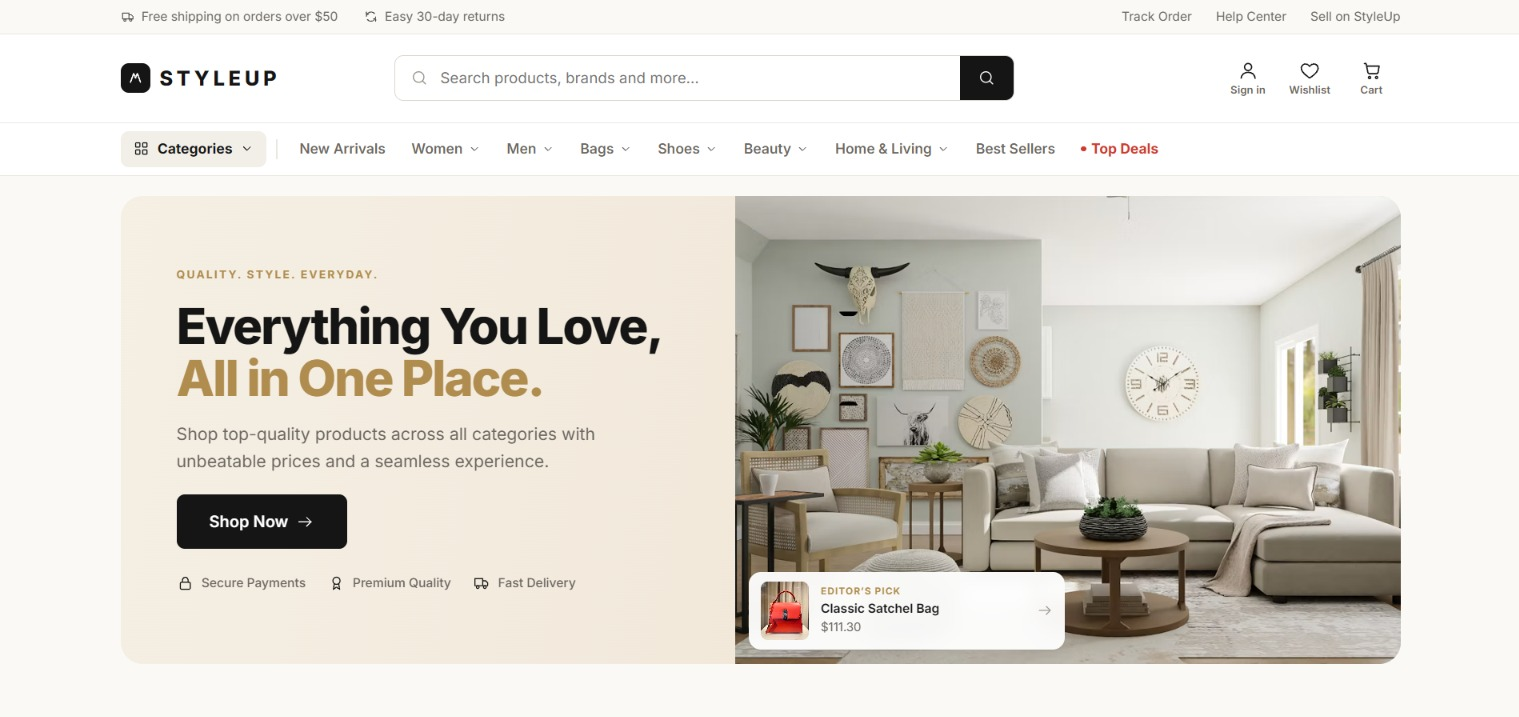
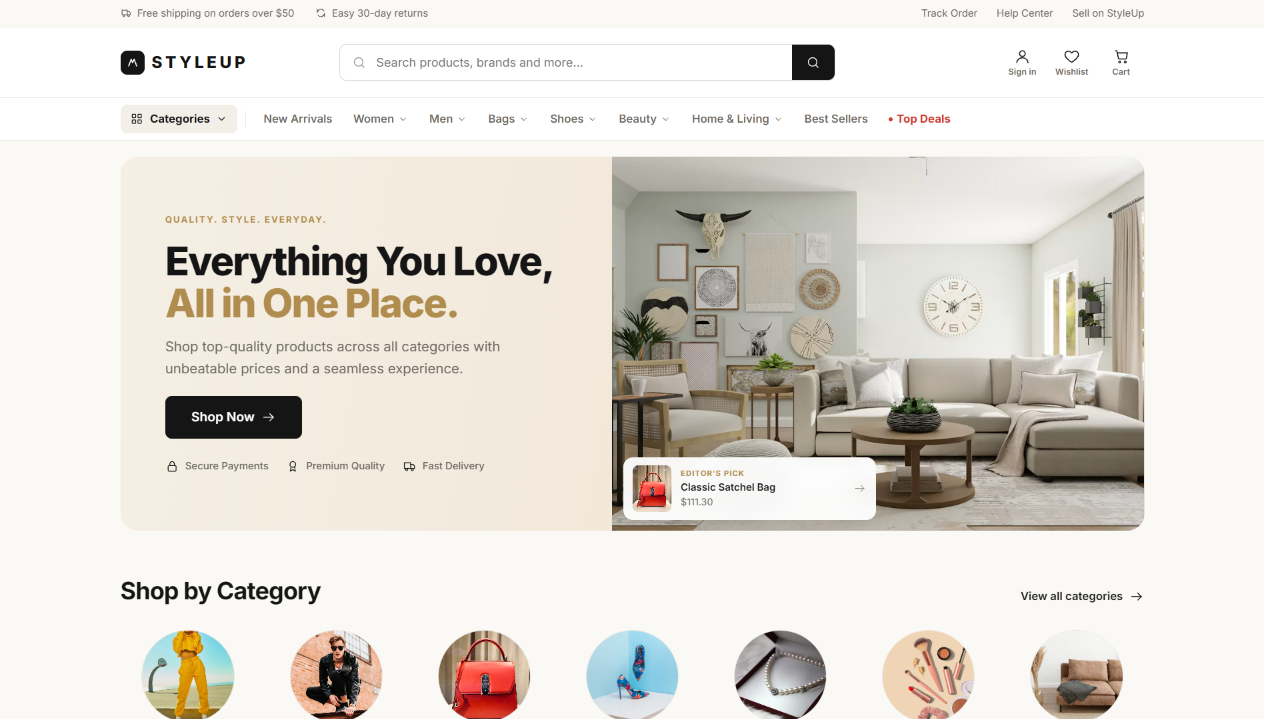
v3

diff --git a/client/src/components/Nav.jsx b/client/src/components/Nav.jsx
@@ -1,7 +1,7 @@
 import { useEffect, useState } from 'react'
 import { profile } from '../data/content'
 import { ArrowUpRight } from './icons'
-
+import logo from '../assets/usamanasir_logo.jpeg'
 /* Same order as the page itself. */
 const links = [
   ['Home', '#top'],
@@ -47,13 +47,17 @@ export default function Nav() {
 
   return (
     <header
-      className={`fixed inset-x-0 top-0 z-50 border-b transition-[background-color,border-color,backdrop-filter] duration-500 ease-fluid ${
-        bar ? 'border-line bg-white/85 backdrop-blur-xl' : 'border-line bg-white/95'
-      }`}
+      className={`fixed inset-x-0 top-0 z-50 border-b transition-[background-color,border-color,backdrop-filter] duration-500 ease-fluid ${bar ? 'border-line bg-white/85 backdrop-blur-xl' : 'border-line bg-white/95'
+        }`}
     >
       <div className="shell flex max-w-[1480px] items-center justify-between py-5">
-        <a href="#top" className="flex items-center gap-3 text-[21px] font-bold tracking-tight text-ink-900">
-          <span className="text-[30px] font-bold italic tracking-[-.12em] text-mint-600" aria-hidden="true">UN</span>{profile.name}
+        <a href="#top" className="flex items-center" aria-label={`${profile.name} - home`}>
+          <img
+            src={logo}
+            alt={profile.name}
+            className="-my-2 h-24 w-auto mix-blend-multiply sm:-my-12 sm:h-34"
+            style={{ filter: 'contrast(1.15) brightness(1.08)' }}
+          />
         </a>
 
         <nav className="hidden items-center gap-1 lg:flex" aria-label="Primary">
@@ -70,7 +74,9 @@ export default function Nav() {
 
         <div className="flex items-center gap-2">
           <a
-            href={`mailto:${profile.email}`}
+            href={`https://mail.google.com/mail/?view=cm&to=${profile.email}`}
+            target="_blank"
+            rel="noopener noreferrer"
             className="group hidden items-center gap-2 rounded-full bg-mint-600 py-1.5 pl-5 pr-1.5 text-[15px] font-medium text-white transition-colors duration-500 ease-fluid hover:bg-mint-700 sm:inline-flex"
           >
             Let&apos;s talk
@@ -89,14 +95,12 @@ export default function Nav() {
           >
             <span className="relative block h-3 w-4">
               <span
-                className={`absolute left-0 block h-px w-4 bg-current transition-transform duration-500 ease-fluid ${
-                  open ? 'top-1.5 rotate-45' : 'top-0'
-                }`}
+                className={`absolute left-0 block h-px w-4 bg-current transition-transform duration-500 ease-fluid ${open ? 'top-1.5 rotate-45' : 'top-0'
+                  }`}
               />
               <span
-                className={`absolute left-0 block h-px w-4 bg-current transition-transform duration-500 ease-fluid ${
-                  open ? 'top-1.5 -rotate-45' : 'top-3'
-                }`}
+                className={`absolute left-0 block h-px w-4 bg-current transition-transform duration-500 ease-fluid ${open ? 'top-1.5 -rotate-45' : 'top-3'
+                  }`}
               />
             </span>
           </button>
@@ -106,9 +110,8 @@ export default function Nav() {
       <div
         id="nav-panel"
         inert={open ? undefined : ''}
-        className={`overflow-hidden border-t border-line bg-white transition-[max-height,opacity] duration-700 ease-fluid lg:hidden ${
-          open ? 'max-h-96 opacity-100' : 'max-h-0 opacity-0'
-        }`}
+        className={`overflow-hidden border-t border-line bg-white transition-[max-height,opacity] duration-700 ease-fluid lg:hidden ${open ? 'max-h-96 opacity-100' : 'max-h-0 opacity-0'
+          }`}
       >
         <nav className="shell flex flex-col py-4" aria-label="Mobile">
           {links.map(([label, href], i) => (
@@ -117,9 +120,8 @@ export default function Nav() {
               href={href}
               onClick={() => setOpen(false)}
               style={{ transitionDelay: open ? `${80 + i * 45}ms` : '0ms' }}
-              className={`border-b border-line/70 py-3.5 font-display text-xl tracking-tightest text-ink-900 transition-all duration-500 ease-fluid ${
-                open ? 'translate-y-0 opacity-100' : 'translate-y-3 opacity-0'
-              }`}
+              className={`border-b border-line/70 py-3.5 font-display text-xl tracking-tightest text-ink-900 transition-all duration-500 ease-fluid ${open ? 'translate-y-0 opacity-100' : 'translate-y-3 opacity-0'
+                }`}
             >
               {label}
             </a>

diff --git a/client/index.html b/client/index.html
@@ -1,26 +1,25 @@
 <!doctype html>
 <html lang="en">
-  <head>
-    <meta charset="UTF-8" />
-    <meta name="viewport" content="width=device-width, initial-scale=1.0" />
-    <meta name="theme-color" content="#ffffff" />
-    <meta
-      name="description"
-      content="UsamaNasir — full-stack engineer and data scientist. MERN systems, machine learning, and interfaces built with intent."
-    />
-    <title>UsamaNasir — Full-Stack Engineer × Data Scientist</title>
-    <link rel="preconnect" href="https://api.fontshare.com" crossorigin />
-    <link
-      href="https://api.fontshare.com/v2/css?f[]=clash-display@600,700,500&f[]=satoshi@400,500,700&display=swap"
-      rel="stylesheet"
-    />
-    <link
-      href="https://fonts.googleapis.com/css2?family=JetBrains+Mono:wght@400;500&display=swap"
-      rel="stylesheet"
-    />
-  </head>
-  <body>
-    <div id="root"></div>
-    <script type="module" src="/src/main.jsx"></script>
-  </body>
+
+<head>
+  <meta charset="UTF-8" />
+  <meta name="viewport" content="width=device-width, initial-scale=1.0" />
+  <meta name="theme-color" content="#ffffff" />
+  <link rel="icon" href="/src/assets/favicon.svg" type="image/svg+xml" />
+  <link rel="icon" href="/src/assets/favicon.ico" sizes="any" />
+  <link rel="apple-touch-icon" href="/src/assets/apple-touch-icon.png" />
+  <meta name="description"
+    content="UsamaNasir — full-stack engineer and data scientist. MERN systems, machine learning, and interfaces built with intent." />
+  <title>UsamaNasir — Full-Stack Engineer × Data Scientist</title>
+  <link rel="preconnect" href="https://api.fontshare.com" crossorigin />
+  <link href="https://api.fontshare.com/v2/css?f[]=clash-display@600,700,500&f[]=satoshi@400,500,700&display=swap"
+    rel="stylesheet" />
+  <link href="https://fonts.googleapis.com/css2?family=JetBrains+Mono:wght@400;500&display=swap" rel="stylesheet" />
+</head>
+
+<body>
+  <div id="root"></div>
+  <script type="module" src="/src/main.jsx"></script>
+</body>
+
 </html>

diff --git a/client/src/data/content.js b/client/src/data/content.js
@@ -186,7 +186,7 @@ export const projects = {
 export const timeline = [
   {
     period: "2024 — Present",
-    role: "Senior Full-Stack & ML Engineer",
+    role: "Full-Stack & ML Engineer",
     org: "Independent / Consulting",
     text: "End-to-end delivery for product teams: MERN platforms with embedded ML services — forecasting, scoring, and search.",
   },
@@ -203,7 +203,7 @@ export const timeline = [
     text: "Shipped client platforms on the MERN stack — e-commerce, dashboards, and realtime tools — with a focus on performance budgets.",
   },
   {
-    period: "2024",
+    period: "2023 - 2027",
     role: "BS Computer Science",
     org: "Graduated with distinction",
     text: "Thesis on applied machine learning for time-series problems. Fell for the overlap of interfaces and inference; never looked back.",

diff --git a/client/src/components/Contact.jsx b/client/src/components/Contact.jsx
@@ -135,9 +135,9 @@ export default function Contact() {
                 <InfoTile icon={Pin} label="Based in">
                   {profile.location}
                 </InfoTile>
-                <InfoTile icon={Clock} label="Availability">
+                {/* <InfoTile icon={Clock} label="Availability">
                   Booking projects for Q4 2026.
-                </InfoTile>
+                </InfoTile> */}
                 <InfoTile icon={Link} label="Elsewhere">
                   <div className="flex flex-wrap gap-x-4 gap-y-1.5">
                     {profile.socials.map((s) => (
